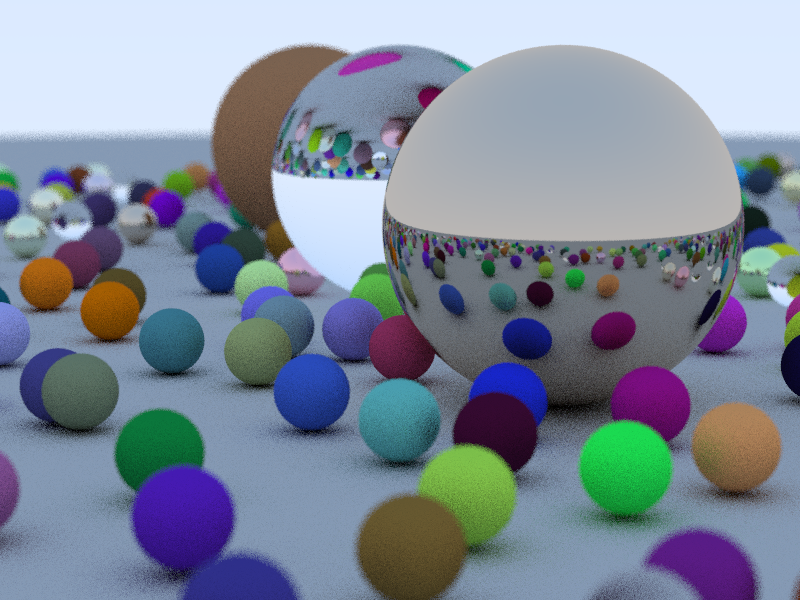
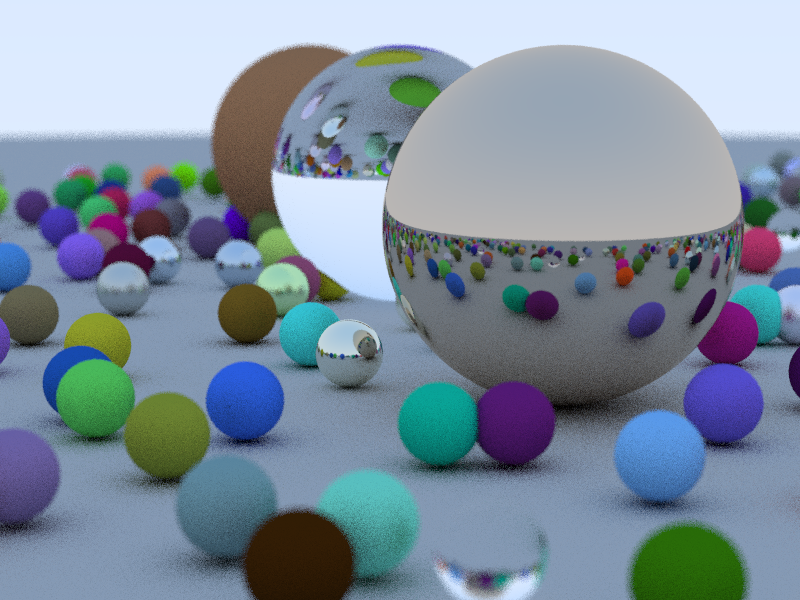
Threaded rendering!

diff --git a/src/main.cpp b/src/main.cpp
@@ -5,6 +5,10 @@
 #include <cstring>
 #include <assert.h>
 #include <thread>
+#include <mutex>
+#include <queue>
+#include <algorithm>
+#include <utility>
 
 #include <SDL2/SDL.h>
 
@@ -46,6 +50,69 @@ struct Camera {
         Ray ray = Ray(origin + offset, lowerLeftCorner + s*horizontal + t*vertical - origin - offset);
         return ray;
     }
+};
+
+template <typename T>
+struct SafeQueue {
+    std::queue<T> queue;
+    std::mutex mutex;
+
+    SafeQueue() {
+        queue = std::queue<T>();
+    }
+
+    T front() {
+        std::lock_guard<std::mutex> m(mutex);
+        return queue.front();
+    }
+
+    T back() {
+        std::lock_guard<std::mutex> m(mutex);
+        return queue.back();
+    }
+
+    bool empty() {
+       return queue.empty();
+    }
+
+    size_t size() {
+        std::lock_guard<std::mutex> m(mutex);
+        return queue.size();
+    }
+
+    void unsafePush(T e) {
+        queue.push(e);
+    }
+
+    void push(T e) {
+        std::lock_guard<std::mutex> m(mutex);
+        queue.push(e);
+    }
+
+    void clear() {
+        std::lock_guard<std::mutex> m(mutex);
+        queue = std::queue<T>();
+    }
+
+    bool pop(T* out = nullptr) {
+        std::lock_guard<std::mutex> m(mutex);
+        if (queue.empty()) {
+            return false;
+        }
+        if (out != nullptr) {
+            *out = queue.front();
+        }
+        queue.pop();
+        return true;
+    }
+};
+
+struct RenderJob {
+    Color32* pixels;
+    Camera* camera;
+    Hittable* world;
+    i32 x, y;
+    i32 width, height;
 };
 
 static Color
@@ -96,6 +163,38 @@ end:
 }
 
 static void
+renderPartFromJob(const RenderJob& job) {
+    auto h = job.y+job.height;
+    auto w = job.x+job.width;
+    for (i32 y = job.y; y < h; y++) {
+        for (i32 x = job.x; x < w; x++) {
+            Vec3 color = vec3(0,0,0);
+            for (i32 s = 0; s < SUBSTEPS; s++) {
+                f32 u =       ((f32)x + Random.next()) / (f32)WIDTH;
+                f32 v = 1.0 - ((f32)y + Random.next()) / (f32)HEIGHT; // Flipping the V so we go from bottom to top
+
+                Ray r = job.camera->getRay(u, v);
+                color += calcColor(r, job.world, 0);
+            }
+            color /= (f32)SUBSTEPS;
+            color = vec3(sqrt(color.r), sqrt(color.g), sqrt(color.b));
+            setPixelColor(job.pixels, x, y, color);
+        }
+    }
+}
+
+static SafeQueue<RenderJob> gRenderQueue;
+
+static void jobQueueRenderer() {
+    while(!gRenderQueue.empty()) {
+        RenderJob job;
+        if(gRenderQueue.pop(&job)) {
+            renderPartFromJob(job);
+        }
+    }
+}
+
+static void
 renderPixels(Color32* pixels) {
     memset(pixels, 0, sizeof(Color32) * WIDTH * HEIGHT);
 
@@ -107,20 +206,42 @@ renderPixels(Color32* pixels) {
 
     Hittable* world = randomScene();
 
-    for (i32 y = 0; y < HEIGHT; y++) {
-        for (i32 x = 0; x < WIDTH; x++) {
-            Vec3 color = vec3(0,0,0);
-            for (i32 s = 0; s < SUBSTEPS; s++) {
-                f32 u =       ((f32)x + Random.next()) / (f32)WIDTH;
-                f32 v = 1.0 - ((f32)y + Random.next()) / (f32)HEIGHT; // Flipping the V so we go from bottom to top
+    gRenderQueue.clear();
 
-                Ray r = camera.getRay(u, v);
-                color += calcColor(r, world, 0);
-            }
-            color /= (f32)SUBSTEPS;
-            color = vec3(sqrt(color.r), sqrt(color.g), sqrt(color.b));
-            setPixelColor(pixels, x, y, color);
+    int x = 0;
+    int y = 0;
+
+    // Calculate tiles and make them into render jobs
+    while(y < HEIGHT) {
+        int h = TILE_HEIGHT;
+        h = h + y >= HEIGHT ? HEIGHT - y : h;
+        while(x < WIDTH) {
+            int w = TILE_WIDTH;
+            w = w + x >= WIDTH ? WIDTH - x : w;
+            gRenderQueue.unsafePush({
+                pixels,
+                &camera,
+                world,
+                x,
+                y,
+                w,
+                h,
+            });
+            x+=TILE_WIDTH;
         }
+        x = 0;
+        y+=TILE_HEIGHT;
+    }
+
+    auto nThreads = std::thread::hardware_concurrency();
+    auto threads = std::vector<std::thread>();
+    threads.reserve(nThreads);
+    for (int i = 0; i < nThreads; i++) {
+        threads.emplace_back(jobQueueRenderer);
+    }
+
+    for (int i = 0; i < threads.size(); i++) {
+        threads[i].join();
     }
 }
 
@@ -129,13 +250,13 @@ savePixels(Color32* pixels) {
     stbi_write_png("render.png", WIDTH, HEIGHT, 4, pixels, WIDTH*sizeof(Color32));
 }
 
-static std::atomic<bool> gRenderAndSaveDone;
+static std::atomic<bool> gAtomicRenderAndSaveDone;
 static void
 renderAndSave(Color32* pixels) {
-    gRenderAndSaveDone = false;
+    gAtomicRenderAndSaveDone = false;
     renderPixels(pixels);
     savePixels(pixels);
-    gRenderAndSaveDone = true;
+    gAtomicRenderAndSaveDone = true;
 }
 
 int
@@ -171,9 +292,15 @@ main(int argc, char** argv) {
 
     Color32* pixels = (Color32*)calloc(WIDTH * HEIGHT, sizeof(Color32));
 
-    std::thread backgroundThread(renderAndSave, pixels);
+#define START_WITH_SPACE 1
 
-    bool expectedRenderAndSaveState = !gRenderAndSaveDone;
+#if START_WITH_SPACE
+    std::thread backgroundThread;
+#else
+    std::thread backgroundThread = std::thread(renderAndSave, pixels);
+#endif
+
+    bool expectedRenderAndSaveState = !gAtomicRenderAndSaveDone;
 
     b32 running = true;
     while (running) {
@@ -194,11 +321,23 @@ main(int argc, char** argv) {
                     }
                     break;
                 }
+
+
+#if START_WITH_SPACE
+                case SDL_KEYUP: {
+                    switch (event.key.keysym.sym) {
+                        case SDLK_SPACE: {
+                            backgroundThread = std::thread(renderAndSave, pixels);
+                            break;
+                        }
+                    }
+                }
+#endif
             }
         }
 
-        if (expectedRenderAndSaveState != gRenderAndSaveDone) {
-            expectedRenderAndSaveState = gRenderAndSaveDone;
+        if (expectedRenderAndSaveState != gAtomicRenderAndSaveDone) {
+            expectedRenderAndSaveState = gAtomicRenderAndSaveDone;
             if(expectedRenderAndSaveState) {
                 SDL_SetWindowTitle(window, "Done rendering");
             } else {

diff --git a/src/config.cpp b/src/config.cpp
@@ -1,5 +1,8 @@
 const int WIDTH  = 800;
 const int HEIGHT = 600;
+const int TILE_WIDTH = 80;
+const int TILE_HEIGHT = 60;
+
 const int WINDOW_SCALE = 1;
 const int SUBSTEPS = 20;
 const int TRACING_MAX_DEPTH = 50;
